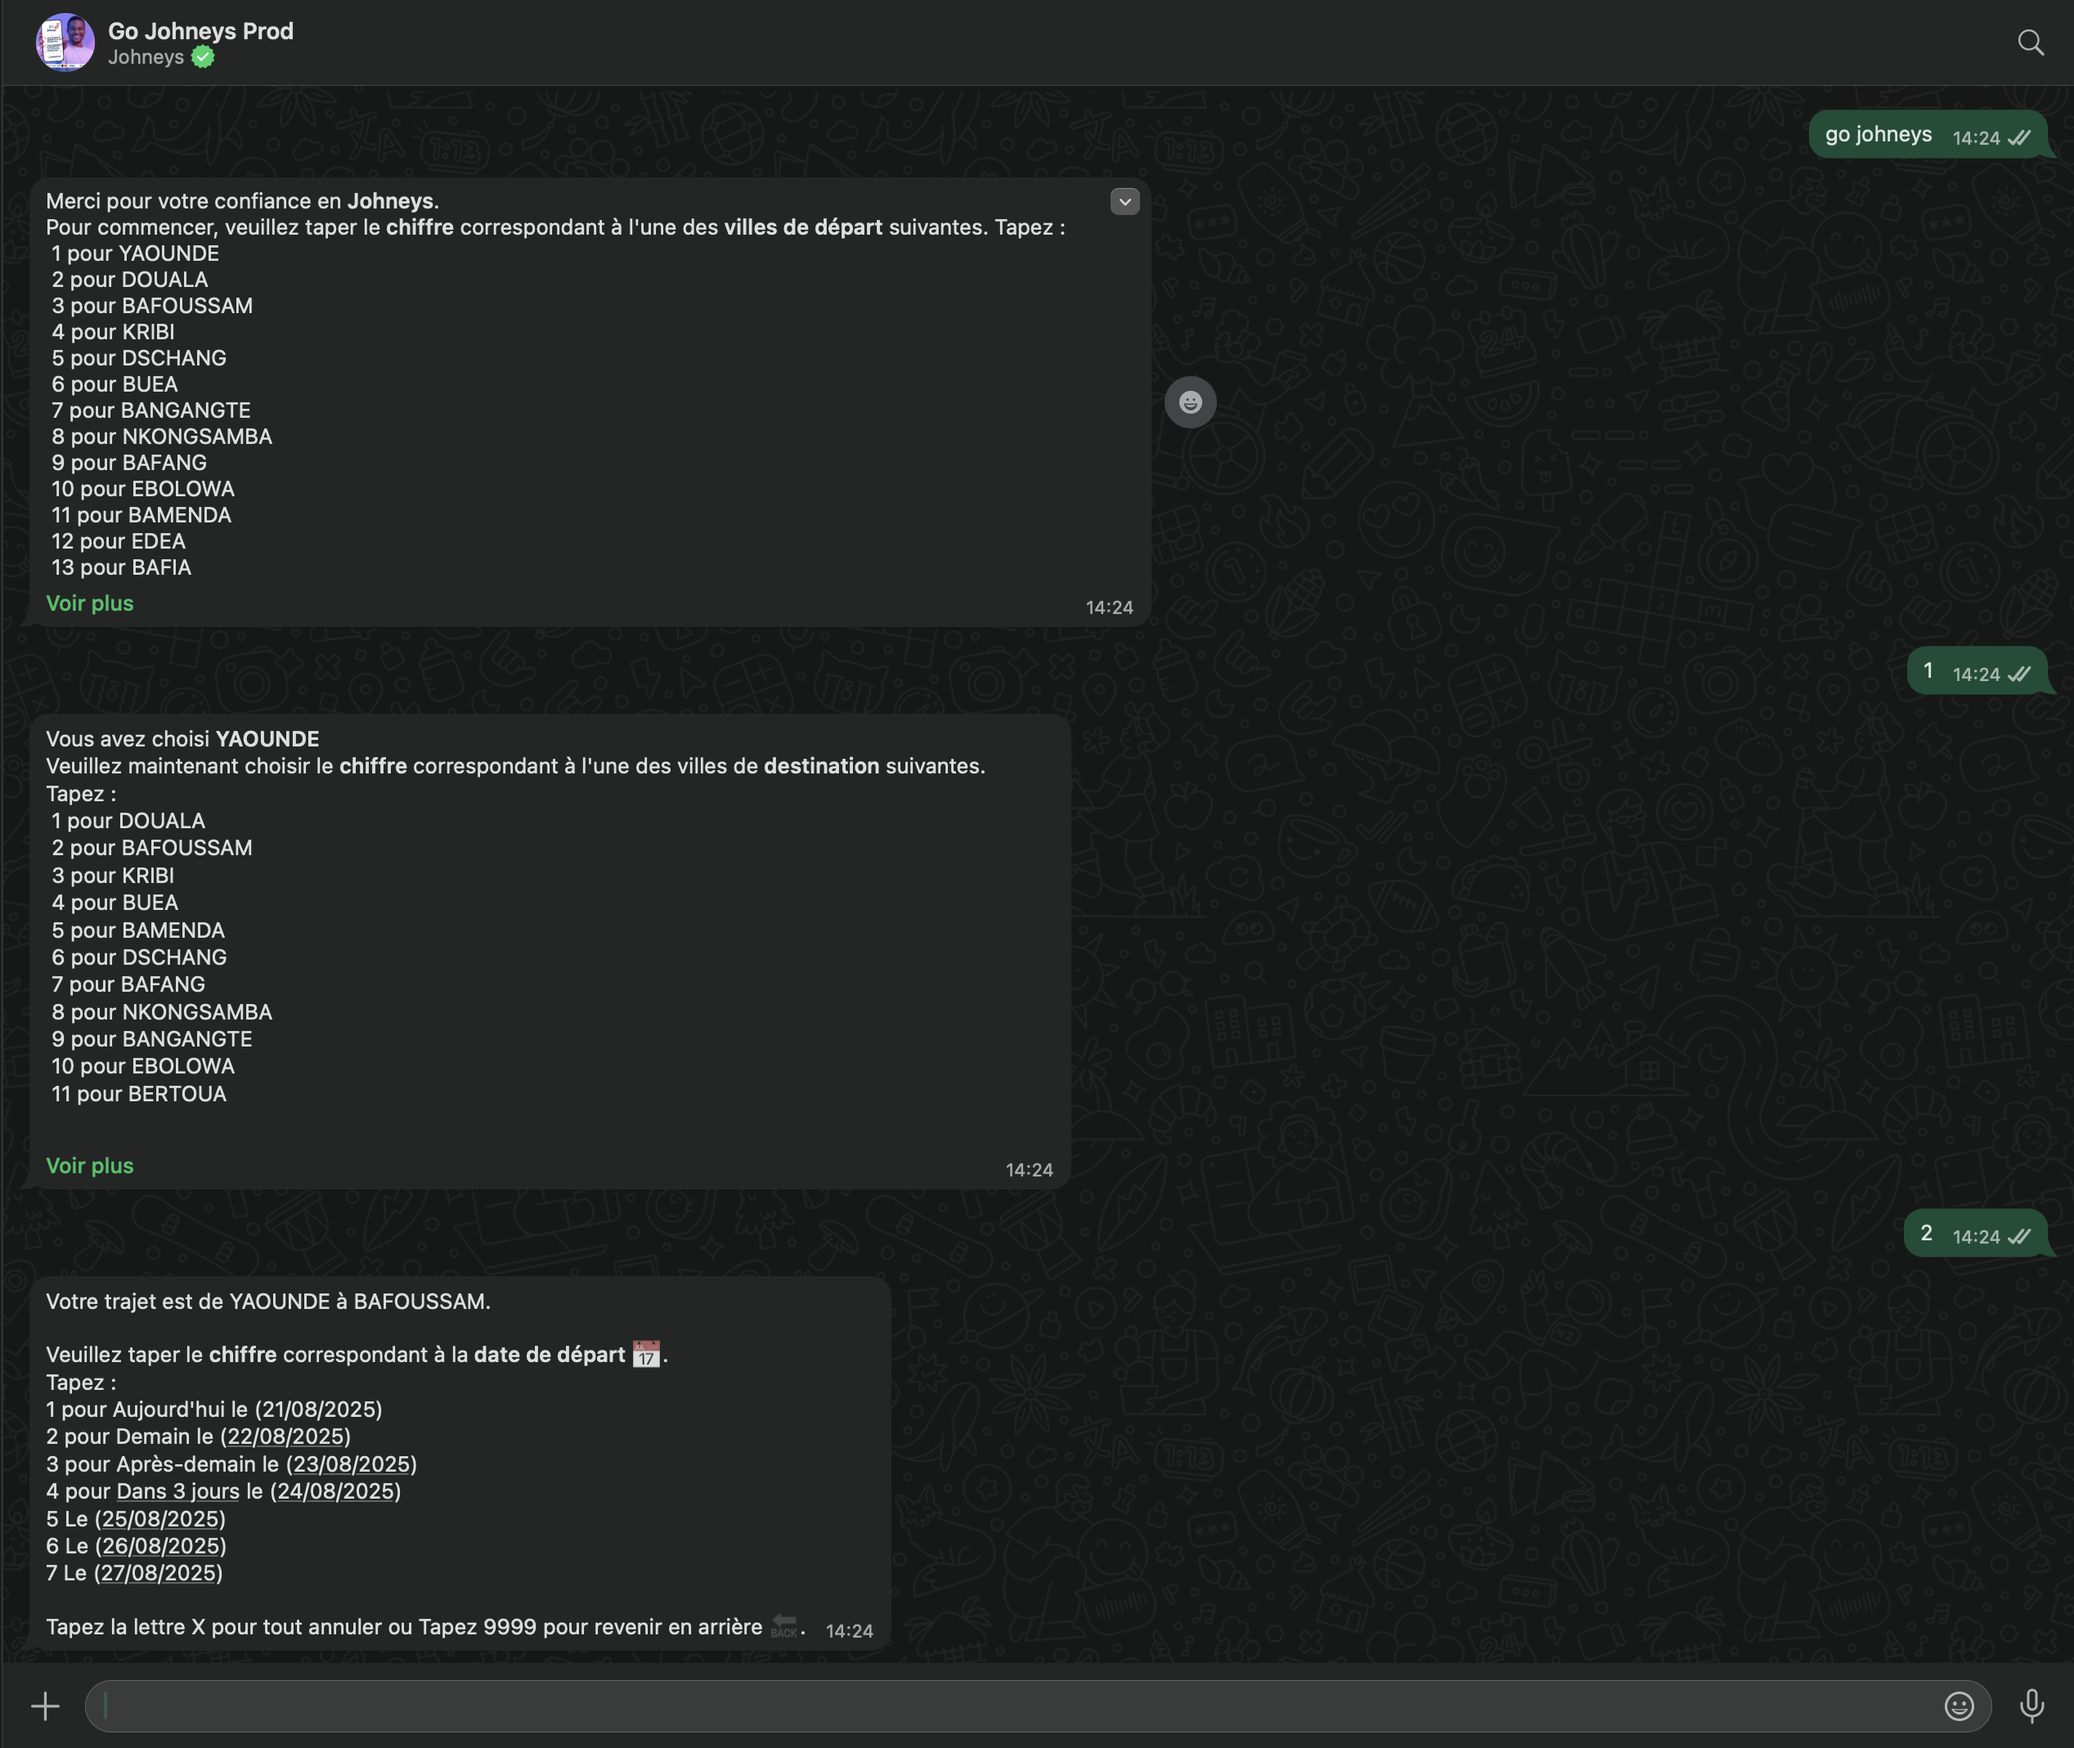
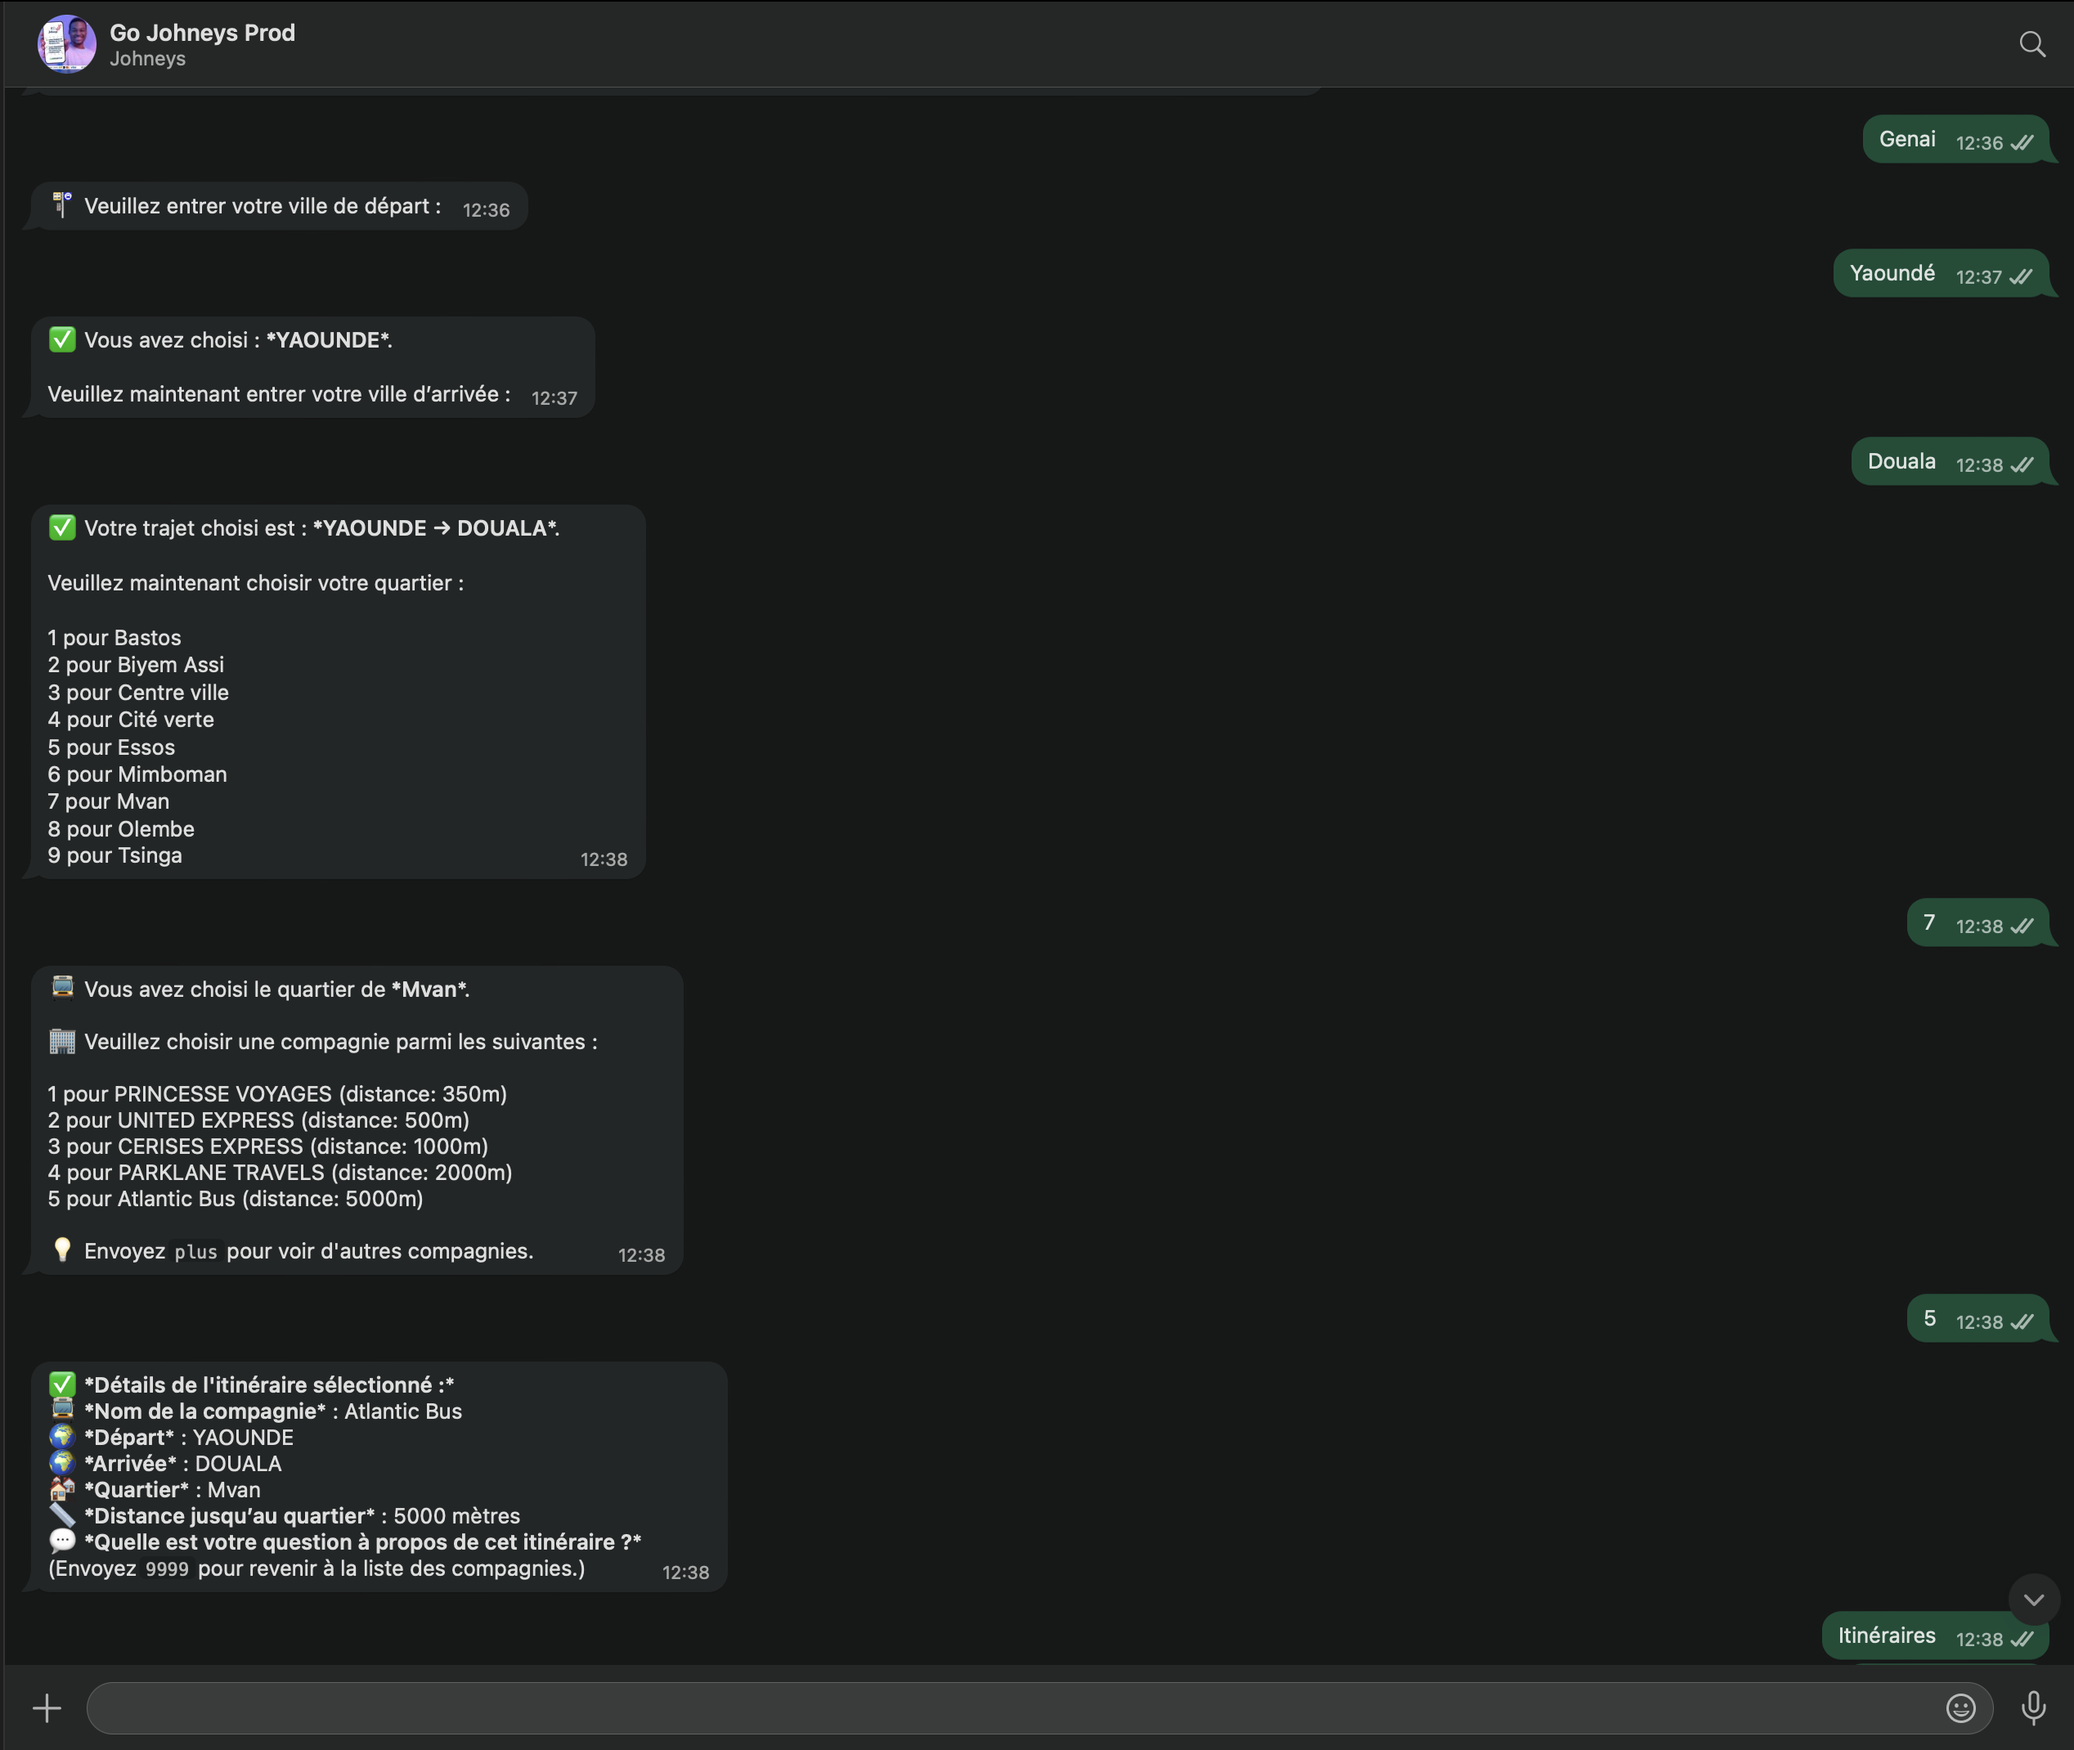
add images

diff --git a/src/components/portfolio.jsx b/src/components/portfolio.jsx
@@ -16,6 +16,7 @@ import bot_1 from "../img/Projets/Bot_WhatsApp_Johneys/bot_WA_1.png";
 import bot_2 from "../img/Projets/Bot_WhatsApp_Johneys/bot_WA_2.png";
 import bot_3 from "../img/Projets/Bot_WhatsApp_Johneys/bot_WA_3.png";
 import bot_4 from "../img/Projets/Bot_WhatsApp_Johneys/bot_WA_4.png";
+import bot_5 from "../img/Projets/Bot_WhatsApp_Johneys/bot_WA_5.png";
 import johneys_1 from "../img/Projets/Site_Web_JOHNEYS/johneys_1.png";
 import johneys_2 from "../img/Projets/Site_Web_JOHNEYS/johneys_2.png";
 import johneys_3 from "../img/Projets/Site_Web_JOHNEYS/johneys_3.png";
@@ -368,6 +369,13 @@ class Portfolio extends React.Component {
                 </a>
                 <a
                   href={bot_4}
+                  data-lightbox="gallery-bot"
+                  style={{ display: "none" }}
+                >
+                  jsx-a11y/anchor-has-content warning
+                </a>
+                <a
+                  href={bot_5}
                   data-lightbox="gallery-bot"
                   style={{ display: "none" }}
                 >
